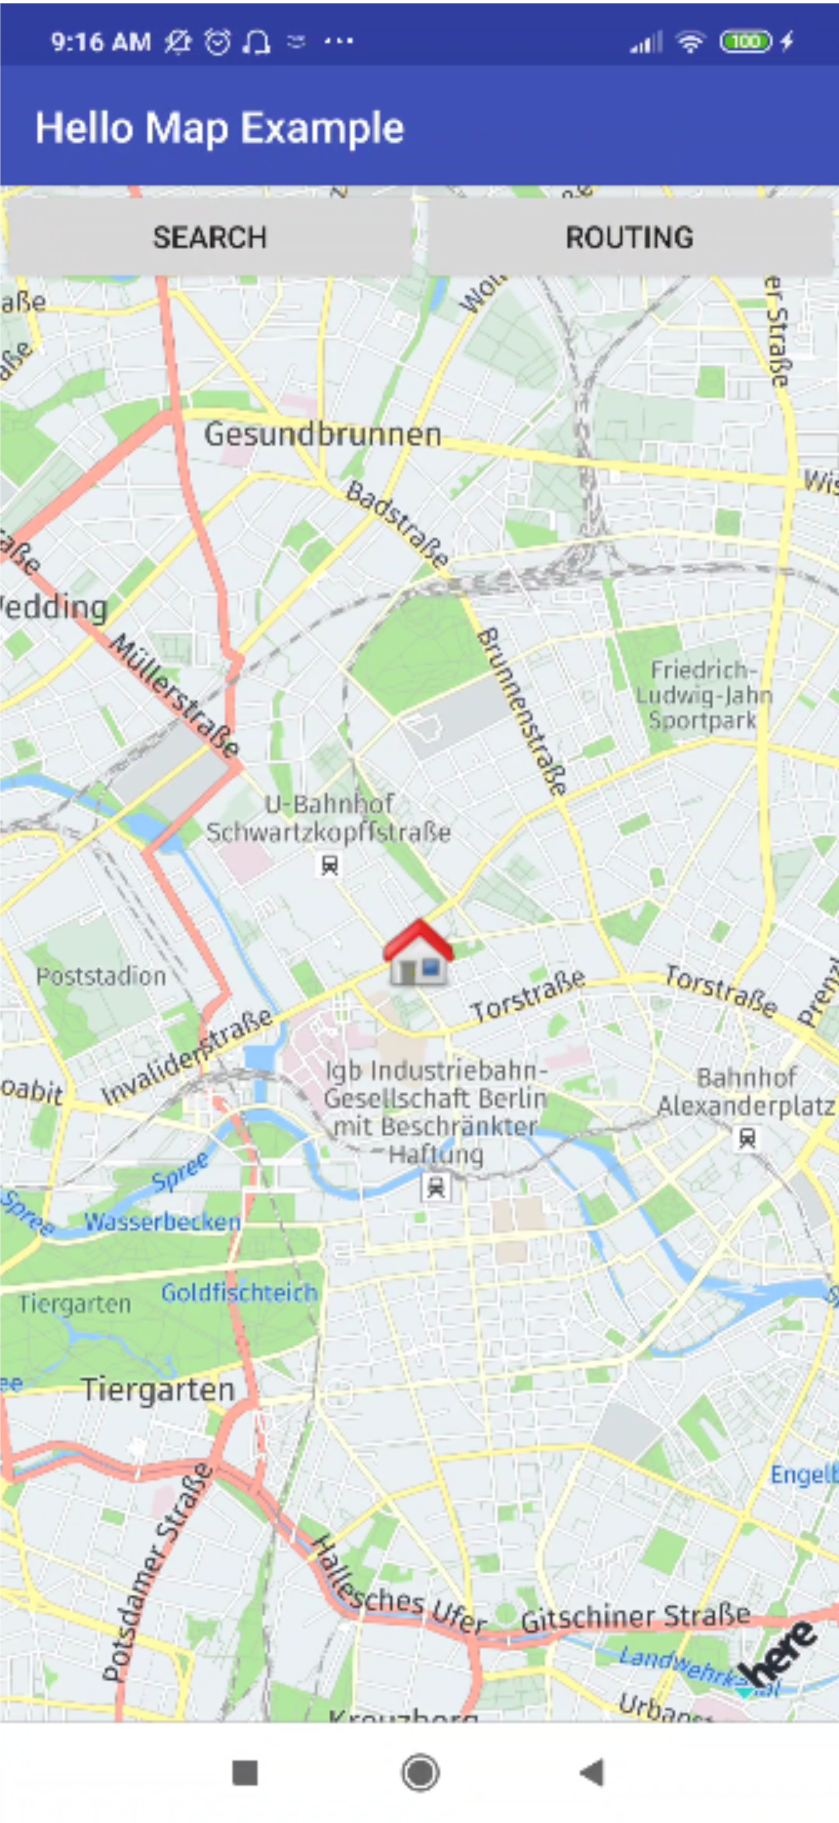
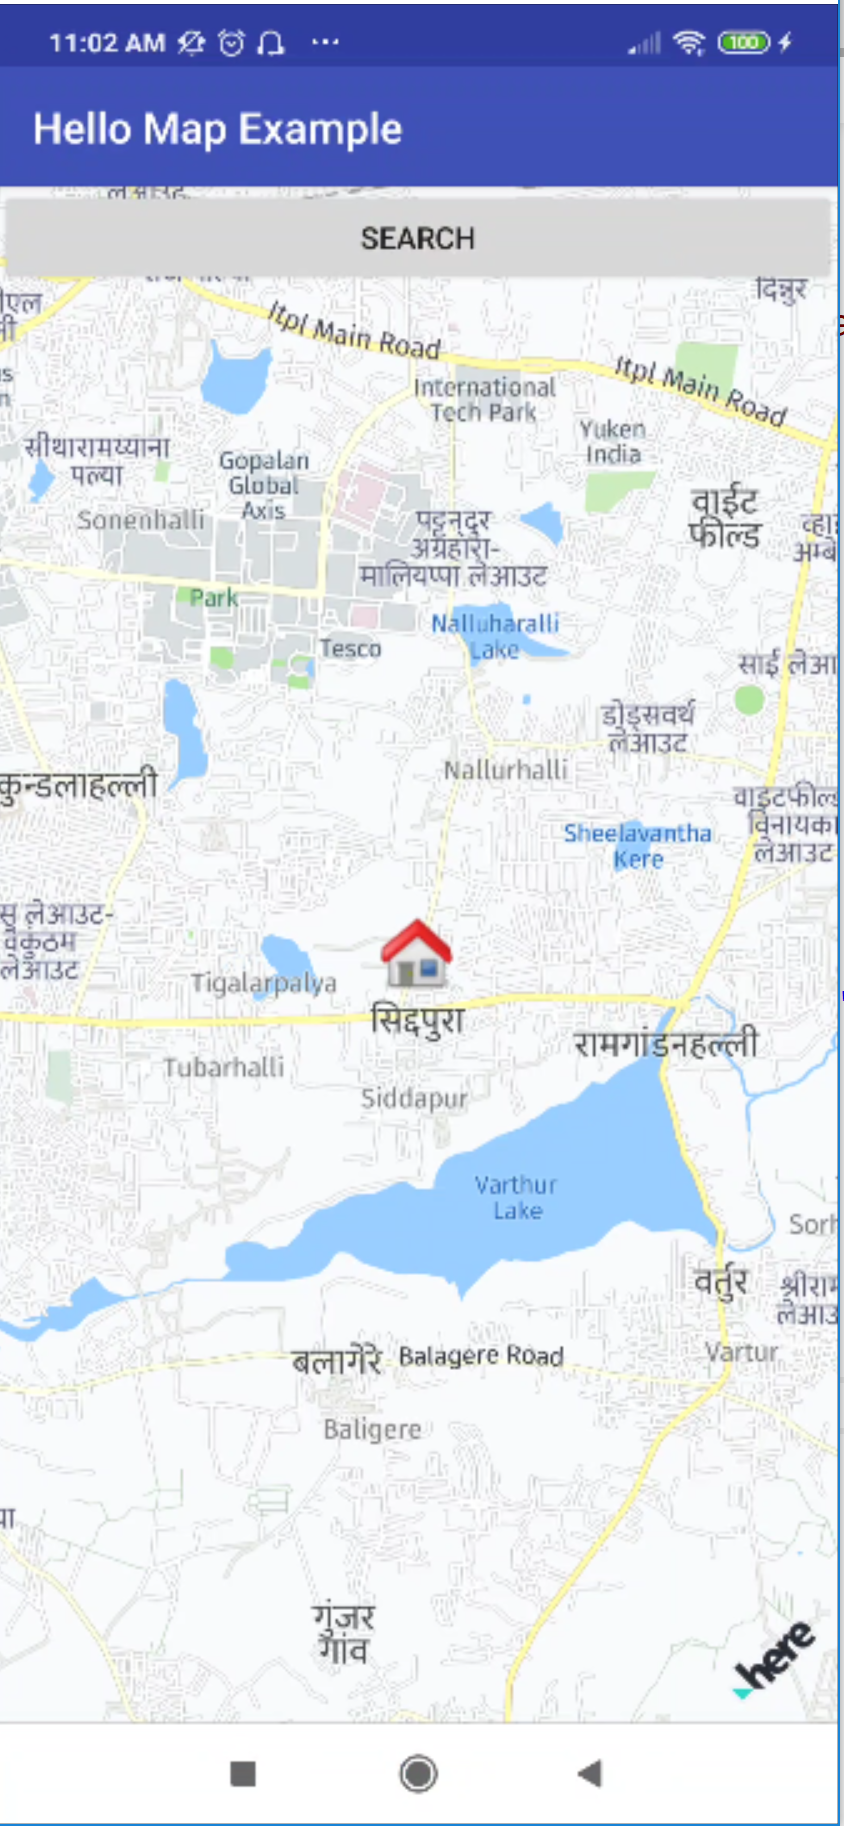
update

diff --git a/Step4.md b/Step4.md
@@ -24,18 +24,10 @@
         android:layout_height="wrap_content"
         android:orientation="horizontal">
         <Button
-            android:layout_width="0dp"
+            android:layout_width="match_parent"
             android:layout_height="wrap_content"
-            android:layout_weight="1"
             android:text="Search"
             android:onClick="searchExampleButtonClicked" />
-
-        <Button
-            android:layout_width="0dp"
-            android:layout_height="wrap_content"
-            android:layout_weight="1"
-            android:text="Routing"
-            android:onClick="routingButtonClicked" />
     </LinearLayout>
 ```
 5. Run app to see the changes

diff --git a/Step6.md b/Step6.md
@@ -26,5 +26,5 @@
 
 <img src="/img/pizzas.png" width="348" height="750"/>
 
-[![Foo](/img/next.png)](/step7.md)
+[![Foo](/img/next.png)](/Step7.md)
 
